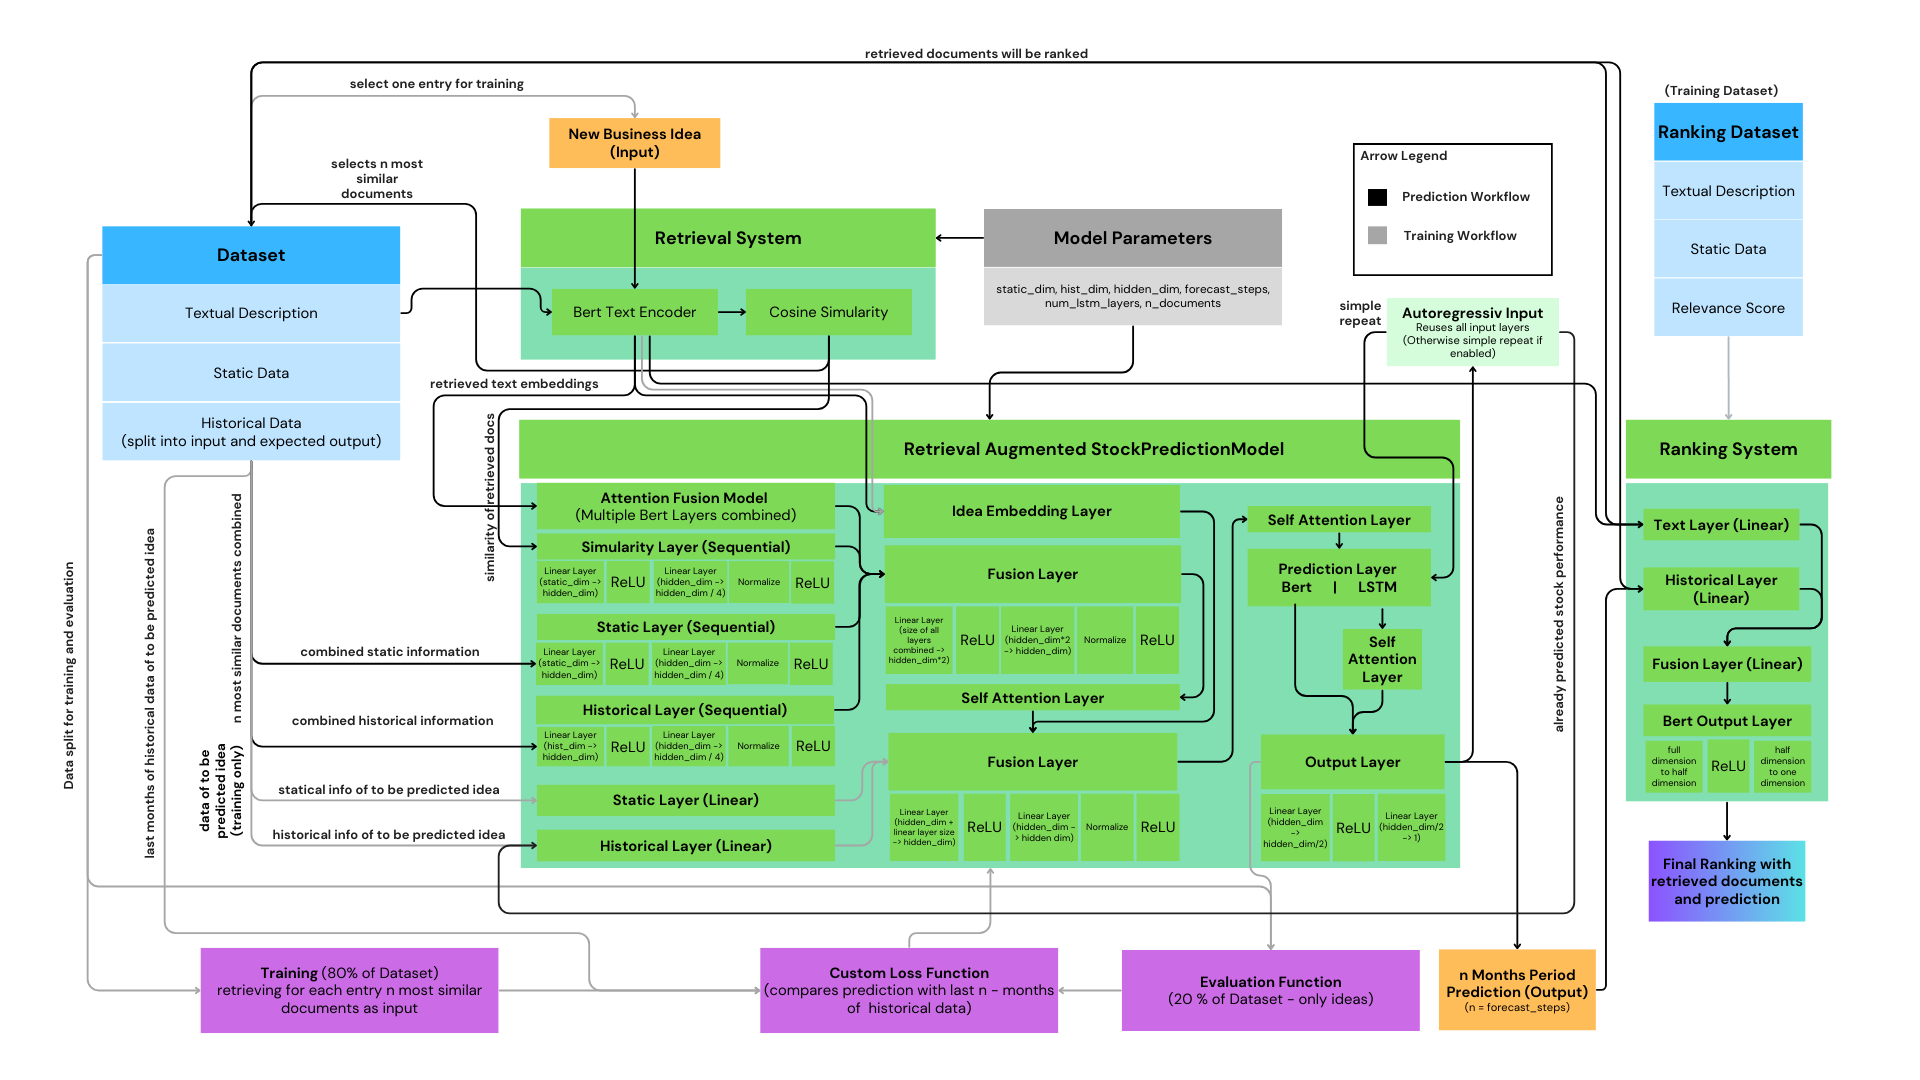
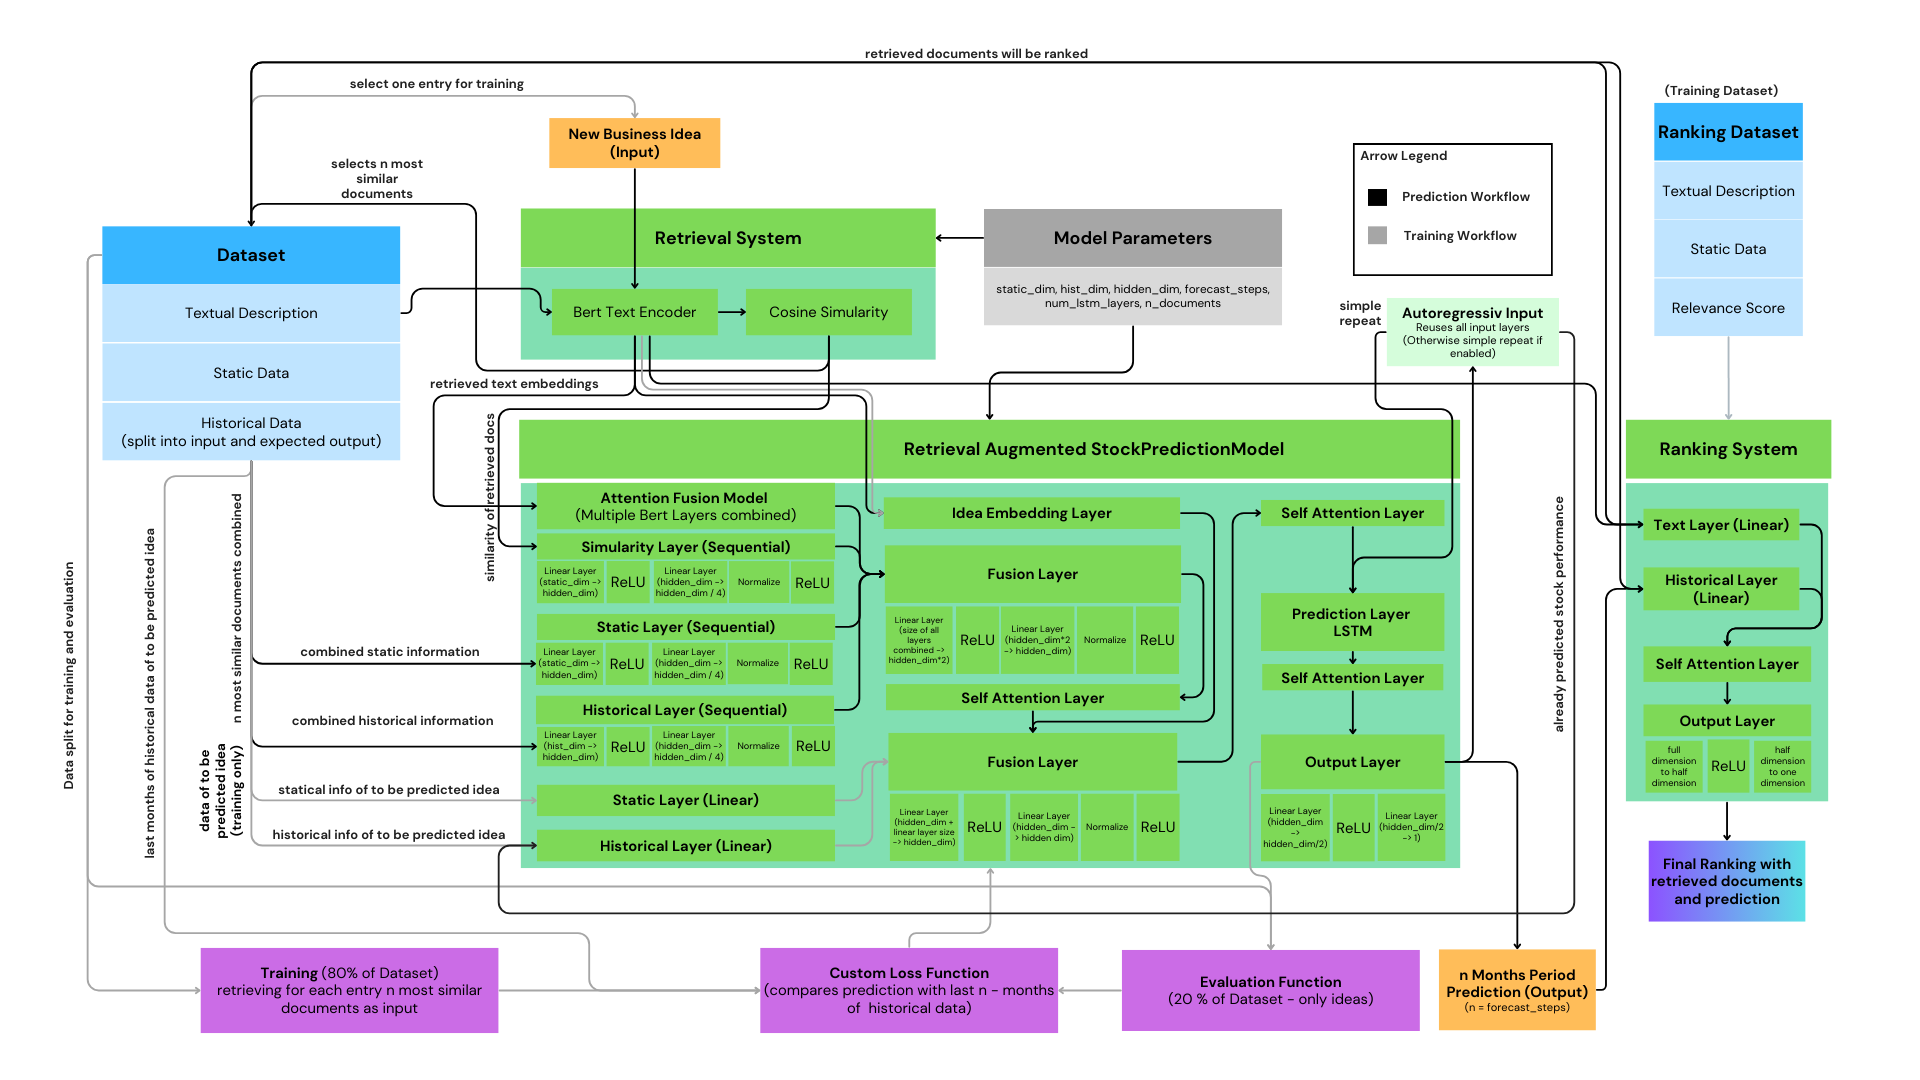
Replaced rap model architecture image and added text about attention optimized rap model in readme

Changed region(s): [[0.4688, 0.4278, 0.7812, 0.6417], [0.875, 0.6111, 0.9375, 0.6722], [0.6875, 0.3056, 0.7188, 0.3361]]

diff --git a/README.md b/README.md
@@ -30,8 +30,9 @@ npm run dev
 
 ## Model Architecture, Results and Evaluation
 Fur further information checkout our [Design Document](/Documents/Design%20Document/AIR_DD_G09_V2.pdf), our [Report](/Documents/Report/Report.pdf), and our [Presentation](/Documents/Presentation/Presentation.pdf).
-However, here is a short graphical Overview over our Model:
+However, here is a short graphical overview over our Model:
 
 ![System Architecture Image](/Documents/Images/AIR%20-%20RAPM%20Architecture.png "System architecture")
 
 
+This was so far our most promising architecture — one that can still be adapted in many variants, depending on the number of retrieved elements, forecast steps, and auxiliary inputs. In an effort to further improve accuracy, we developed an [**Attention-Optimized Retrieval-Augmented Prediction Model**](https://github.com/jonnyCap/AIR-Project/blob/attention_fix/PredictionModel/AttentionOptimizedRetrievalAugmentedPredictionModel.ipynb), designed to better leverage attention mechanisms and LSTM layers. However, as this approach did not yield the expected results, we decided to continue working with the original **RAP Model**.
